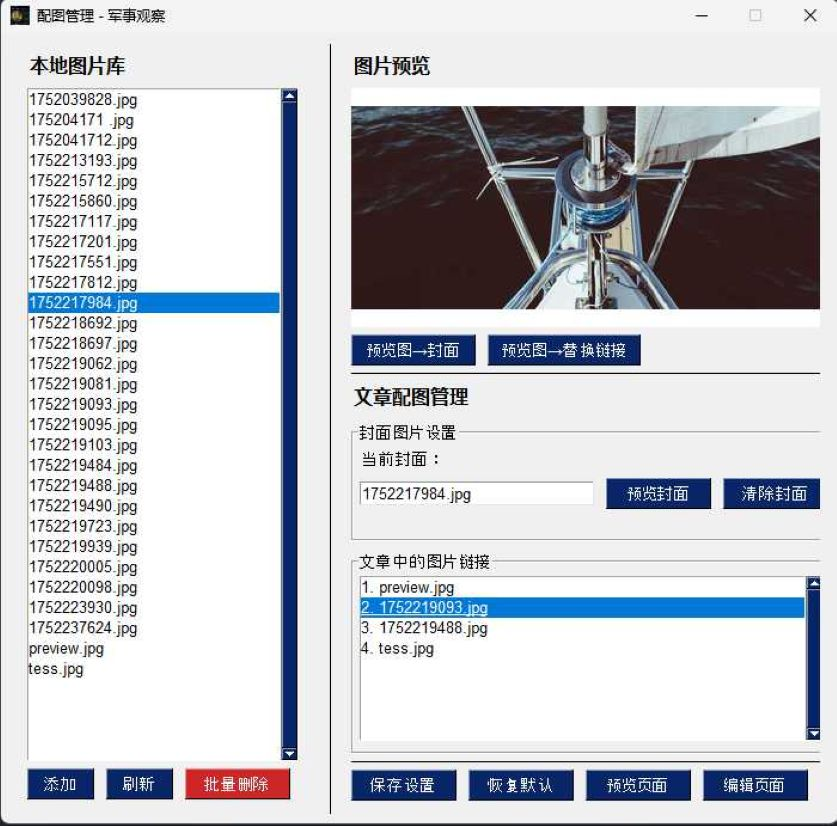
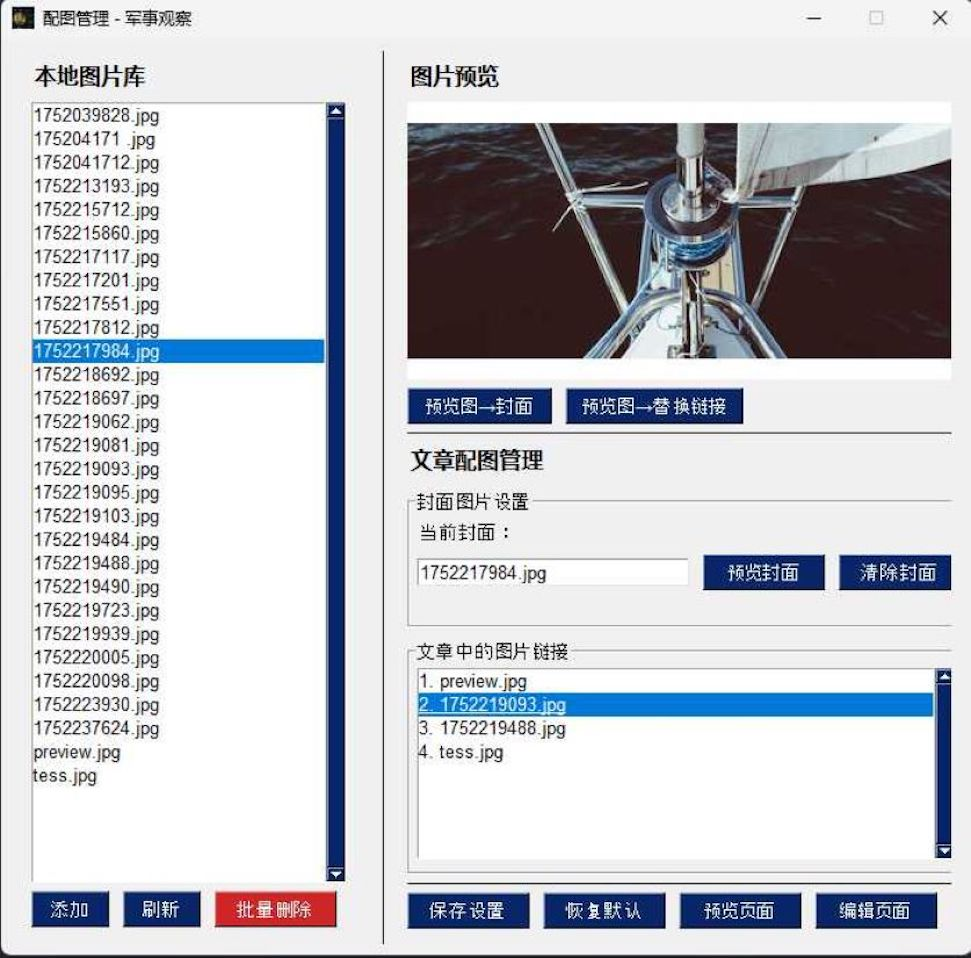
更新许可证为自定义许可证 📜 以限制未经授权的商业用途并支持非商业传播

diff --git a/src/ai_auto_wxgzh/tools/hotnews.py b/src/ai_auto_wxgzh/tools/hotnews.py
@@ -3,19 +3,16 @@
 # Date: 2025-06-03
 # Description: 用于热搜话题获取，关注项目 https://github.com/iniwap/ai_auto_wxgzh
 
-# Copyright (c) 2025 iniwaper@gmail.com
-# Licensed under the Apache License, Version 2.0 (the "License");
-# you may not use this file except in compliance with the License.
-# You may obtain a copy of the License at
+# Copyright (c) 2025 iniwap
 #
-#     http://www.apache.org/licenses/LICENSE-2.0
+# This software is licensed under the [Your Project Name] License.
+# You may use, modify, and distribute this software freely for non-commercial purposes.
+# Commercial use requires prior written authorization.
+# See the LICENSE file in the project root for full details.
 #
-# Unless required by applicable law or agreed to in writing, software
-# distributed under the License is distributed on an "AS IS" BASIS,
-# WITHOUT WARRANTIES OR CONDITIONS OF ANY KIND, either express or implied.
-# See the License for the specific language governing permissions and
-# limitations under the License.
-# 本文件受 Apache 2.0 许可证保护，禁止删除版权声明。
+# 本软件受 CrewAI微信公众号全自动生成排版发布工具 许可证保护。
+# 非商业用途可自由使用、修改和分发。商业用途需获得书面授权。
+# 详情请参阅 LICENSE 文件。
 
 
 import requests

diff --git a/src/ai_auto_wxgzh/tools/search_template.py b/src/ai_auto_wxgzh/tools/search_template.py
@@ -3,19 +3,16 @@
 # Date: 2025-06-03
 # Description: 用于本地搜索，关注项目 https://github.com/iniwap/ai_auto_wxgzh
 
-# Copyright (c) 2025 iniwaper@gmail.com
-# Licensed under the Apache License, Version 2.0 (the "License");
-# you may not use this file except in compliance with the License.
-# You may obtain a copy of the License at
+# Copyright (c) 2025 iniwap
 #
-#     http://www.apache.org/licenses/LICENSE-2.0
+# This software is licensed under the [Your Project Name] License.
+# You may use, modify, and distribute this software freely for non-commercial purposes.
+# Commercial use requires prior written authorization.
+# See the LICENSE file in the project root for full details.
 #
-# Unless required by applicable law or agreed to in writing, software
-# distributed under the License is distributed on an "AS IS" BASIS,
-# WITHOUT WARRANTIES OR CONDITIONS OF ANY KIND, either express or implied.
-# See the License for the specific language governing permissions and
-# limitations under the License.
-# 本文件受 Apache 2.0 许可证保护，禁止删除版权声明。
+# 本软件受 CrewAI微信公众号全自动生成排版发布工具 许可证保护。
+# 非商业用途可自由使用、修改和分发。商业用途需获得书面授权。
+# 详情请参阅 LICENSE 文件。
 
 
 import time

diff --git a/README.md b/README.md
@@ -2,21 +2,21 @@
 
 ![Python](https://img.shields.io/badge/Python-3.10+-blue) ![PySimpleGUI](https://img.shields.io/badge/PySimpleGUI-4.60.5+-green) ![CrewAI](https://img.shields.io/badge/CrewAI-0.102.0+-red) ![AIPy](https://img.shields.io/badge/aipyapp-0.1.27+-pink)  ![PyWinGUIBuilder](https://img.shields.io/badge/PyWinGUIBuilder-1.0.0+-yellow) ![Stars](https://img.shields.io/github/stars/iniwap/ai_auto_wxgzh?label=收藏)
 
-基于 CrewAI 、AIPy 的微信公众号自动化工具软件，自动获取抖音、微博等平台热点，融合“搜索+借鉴+AI”，生成**高时效（实时）**、高质量、排版酷炫的文章并发布到微信公众号。👉[高大上文章排版预览](#微信公众号模板效果预览)
+基于 CrewAI 、AIPy 的微信公众号自动化工具软件，自动获取抖音、微博等平台热点，融合“搜索+借鉴+AI”，生成**高时效（实时）**、高质量、排版酷炫的文章并发布到微信公众号。  
 
-**喜欢项目？点个 Star 支持一下吧！⭐**
+> **迫不及待想看看效果？** 👉 [排版预览](#-微信公众号模板效果预览)
+> **心动不如行动？** 👉 [马上体验](#-快速开始)
+> **喜欢项目？** ⭐ 点个 Star 支持一下吧！
 
-![界面预览 / Interface Preview](image/preview.jpg)
-![界面预览 / Interface Preview](image/preview_2.jpg)
-
-
-## 🎯 项目背景
-为了学习CrewAI，特开发了这个小项目，最后才发现公众号（未认证）限制巨多，有认证微信公众号的可以更好的发挥这个项目的作用。随着研究、开发的深入，项目功能日趋完善，更多功能开发中，敬请关注项目！👉[赶紧体验吧~](#-快速开始)  
+<div style="display: flex; justify-content: space-between;">
+  <img src="image/preview.jpg" width="46.3%">
+  <img src="image/preview_2.jpg" width="53.7%">
+</div>
 
 ## 💎 基本功能
 - **自动获取热门话题**：从各大平台实时抓取热门话题，确保文章标题/内容紧跟潮流
 - **自动生成与排版**：利用 CrewAI 多角色协作，自动生成文章并完成酷炫排版
-  - **💡 实时文章生成**：采用多重搜索策略（本地+AIPy），拒绝过时内容，确保文章时效性
+  - **💡 实时性文章生成**：采用多重搜索策略（本地+AIPy），拒绝过时内容，确保文章时效性
   - **💡 指定话题及参考文章**：允许用户自定义文章话题、提供参考文章，结合 AI 生成高质量内容
 - **自动发布图文**：一键发布图文消息到微信公众号，简化运营流程
 - **UI 可视化管理**：提供软件界面，操作简单高效
@@ -244,10 +244,10 @@
 
 为了大家能用上DeepSeek，我怒冲10元进行适配调试，给个Star吧~🙏
 
-- CrewAI框架默认不支持DeepSeek，需要手动创建（LiteLLM是支持的）
+- CrewAI框架默认不支持DeepSeek，需要手动创建（LiteLLM支持）
 - DeepSeek在`模板填充阶段`速度较慢，请耐心等待（速度似乎不如OpenRouter的DeepSeek）
 - 使用DeepSeek请注意**费用**消耗（说实话没有薅OpenRouter羊毛踏实）
-- 内置模型提供商基本都已经适配，grok、gemini仍需进一步测试
+
 
 ## 🤝 贡献
 - 提交代码以及优化建议，新功能等等
@@ -257,5 +257,6 @@
 如需了解配置详情或扩展、定制功能，请联系我 QQ 522765228
 
 ## 📜 许可证 / License
-本项目采用 Apache 2.0 许可证授权。用户在分发或修改本软件时，必须保留所有版权声明和许可证条款。  
-详情请参阅 [LICENSE](LICENSE) 文件。
+非商业用户可自由使用、修改和分发软件，但必须保留版权声明。任何商业用途（例如开发产品、提供服务或其他盈利活动）需获得版权所有人的书面授权（可能涉及付费）。详情请参阅 [LICENSE](LICENSE) 文件。
+联系方式：iniwaper@gmail.com 或 522765228@qq.com
+

diff --git a/LICENSE-CN.md b/LICENSE-CN.md
@@ -1,0 +1,18 @@
+# CrewAI微信公众号全自动生成排版发布工具 许可证 📜
+版权所有 (c) 2025 iniwap
+
+本许可证适用于本仓库中提供的软件及相关文件（统称为“软件”）。
+
+1. **非商业使用与分发**：您可以自由地出于非商业目的使用、修改和分发软件，无任何限制，但必须在软件的所有副本或实质部分中包含本许可证和版权声明。
+
+2. **商业使用**：未经版权所有人书面授权，您不得将软件用于任何商业目的（例如开发商业产品、提供服务或任何旨在盈利的活动）。此授权可能涉及付费许可。如需授权，请联系 iniwaper@gmail.com 或 522765228@qq.com。
+
+3. **署名**：无论用于非商业或授权的商业目的，您必须在软件的所有副本或实质部分中保留版权声明、本许可证和任何免责声明。
+
+4. **无担保**：软件按“原样”提供，不提供任何明示或暗示的担保，包括但不限于适销性、特定用途适用性和非侵权性的担保。版权所有人对因使用软件而产生的任何索赔、损害或其他责任概不负责。
+
+5. **终止**：任何违反本条款的行为，包括未经授权的商业使用或未保留版权声明，将自动终止您在本许可证下的权利。
+
+使用软件即表示您同意受本许可证条款的约束。本许可证是您与版权所有人之间关于软件的完整协议。
+
+如需咨询商业使用授权事宜，请联系 iniwaper@gmail.com 或 522765228@qq.com。
